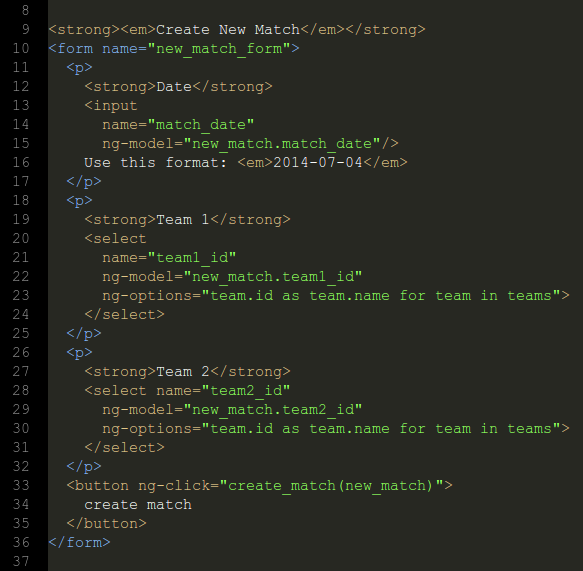
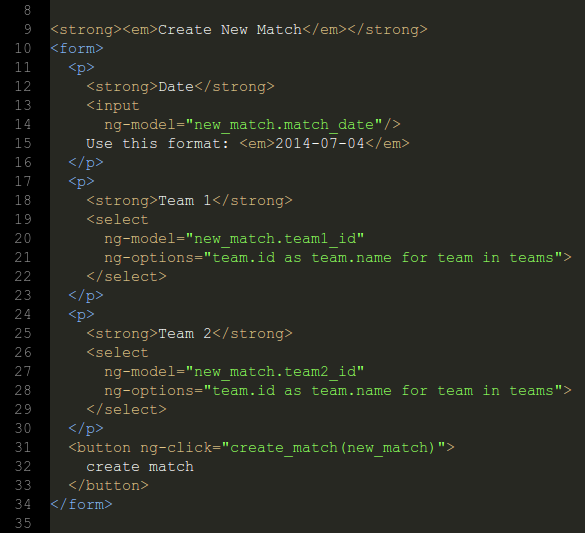
remove 'name' attributes from tags in 'new match' form

Changed region(s): [[0.0, 0.0, 0.988, 1.0]]

diff --git a/public/ngtemplates/home.html b/public/ngtemplates/home.html
@@ -7,25 +7,23 @@
 <br>
 
 <strong><em>Create New Match</em></strong>
-<form name="new_match_form">
+<form>
   <p>
     <strong>Date</strong>
     <input
-      name="match_date"
       ng-model="new_match.match_date"/>
     Use this format: <em>2014-07-04</em>
   </p>
   <p>
     <strong>Team 1</strong>
     <select
-      name="team1_id"
       ng-model="new_match.team1_id"
       ng-options="team.id as team.name for team in teams">
     </select>
   </p>
   <p>
     <strong>Team 2</strong>
-    <select name="team2_id"
+    <select
       ng-model="new_match.team2_id"
       ng-options="team.id as team.name for team in teams">
     </select>
